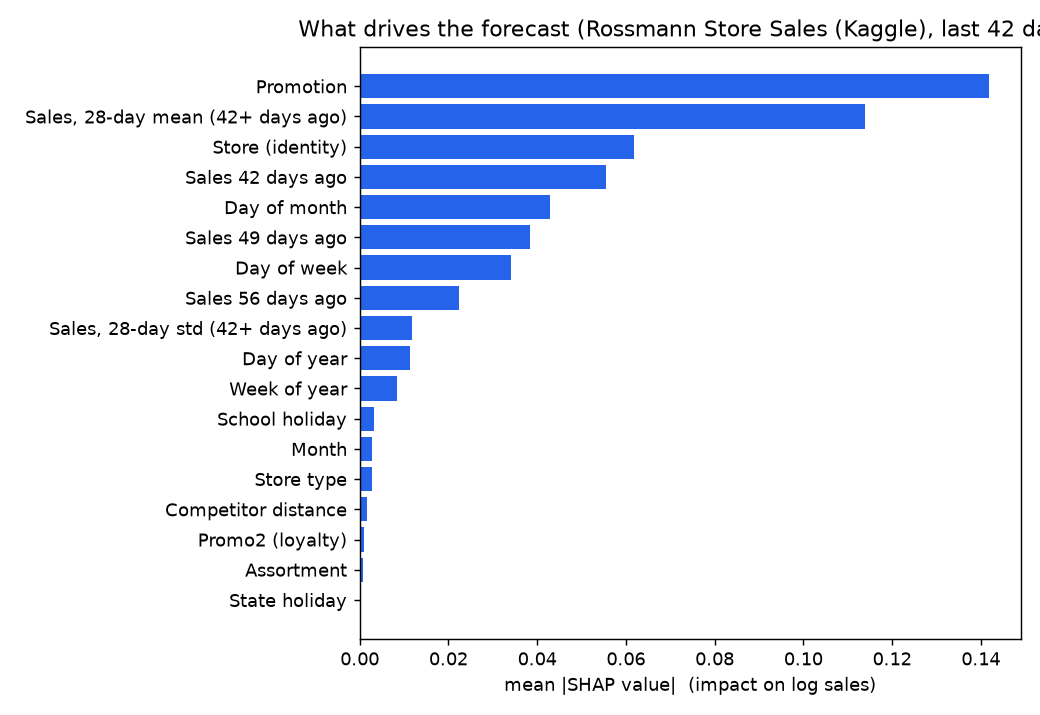
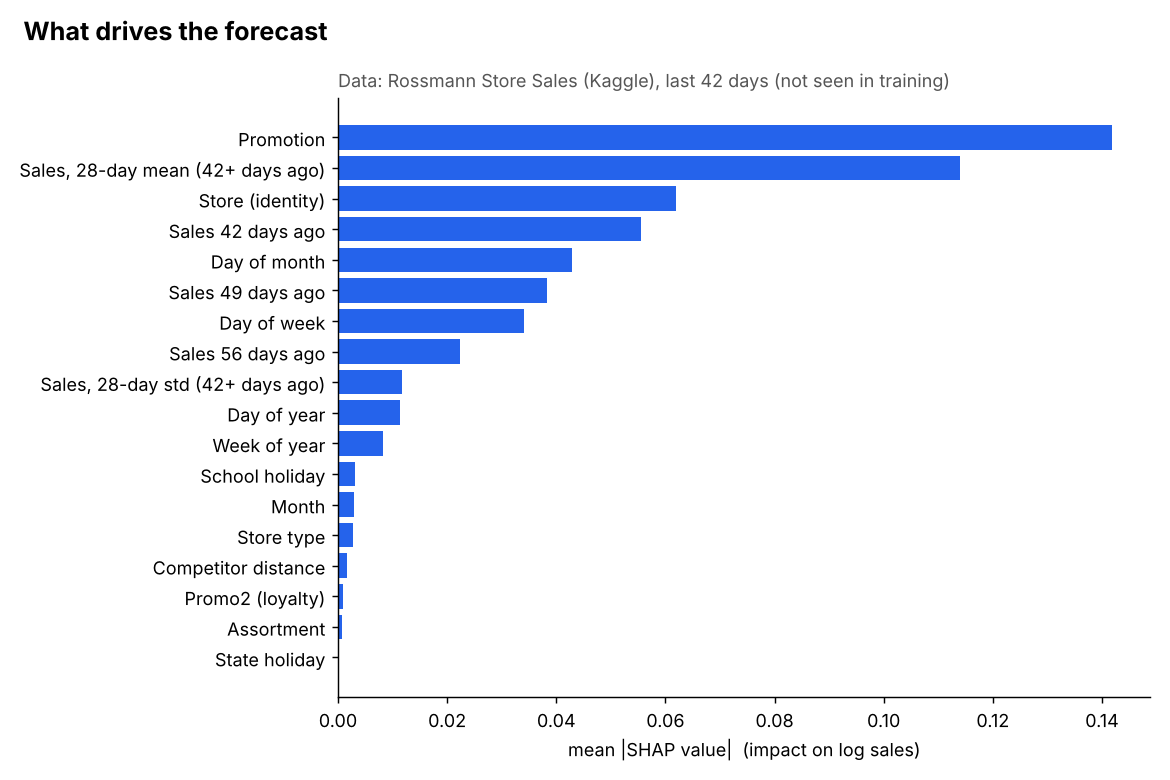
docs: real results for intervals, tuning and SHAP; cleaner SHAP chart

diff --git a/scripts/explain.py b/scripts/explain.py
@@ -50,16 +50,26 @@ def main(max_rows: int = 50_000):
     imp = shap_importance(model, X)
 
     config.FIGURES.mkdir(parents=True, exist_ok=True)
-    fig, ax = plt.subplots(figsize=(8, 5.5))
-    ax.barh([label(c) for c in imp.index], imp.to_numpy(), color="#2563eb")
-    ax.set_xlabel("mean |SHAP value|  (impact on log sales)")
-    ax.set_title(f"What drives the forecast ({source}, last {config.HORIZON} days)")
-    plt.tight_layout()
-    out = config.FIGURES / "shap_importance.png"
-    plt.savefig(out, dpi=130)
-    plt.close()
+    plot_importance(imp.rename(label), config.FIGURES / "shap_importance.png",
+                    f"Data: {source}, last {config.HORIZON} days (not seen in training)")
     print(imp.sort_values(ascending=False).rename(label).round(4).to_string())
-    print(f"\nSaved {out}")
+    print(f"\nSaved {config.FIGURES / 'shap_importance.png'}")
+
+
+def plot_importance(imp: pd.Series, out, subtitle: str = ""):
+    """Horizontal bar chart of mean |SHAP| (imp is indexed by readable labels)."""
+    imp = imp.sort_values()
+    fig, ax = plt.subplots(figsize=(9, 6))
+    ax.barh(imp.index, imp.to_numpy(), color="#2563eb")
+    ax.set_xlabel("mean |SHAP value|  (impact on log sales)")
+    fig.suptitle("What drives the forecast", x=0.02, ha="left", fontsize=14, fontweight="bold")
+    if subtitle:
+        ax.set_title(subtitle, loc="left", fontsize=10, color="#555555")
+    for side in ("top", "right"):
+        ax.spines[side].set_visible(False)
+    fig.tight_layout()
+    fig.savefig(out, dpi=130)
+    plt.close(fig)
 
 
 if __name__ == "__main__":

diff --git a/README.md b/README.md
@@ -31,15 +31,16 @@ Forecasts daily sales for **1,115 Rossmann drugstores, up to 42 days ahead**, wi
 ## ⚡ TL;DR
 
 - **Problem:** forecast each store's daily sales 6 weeks ahead from Kaggle's Rossmann data (1M+ rows, 2013 to July 2015).
-- **Method:** leak-free features (every sales lag at least 42 days old), a **4-fold rolling backtest**, baselines first, then **LightGBM vs a PyTorch MLP**, tracked in MLflow; Optuna tuning on a period the reported backtest never sees.
+- **Method:** leak-free features (every sales lag at least 42 days old), a **4-fold rolling backtest**, baselines first, then **LightGBM vs a PyTorch MLP**, tracked in MLflow; Optuna tuning checked on a period it never saw (it didn't transfer, so the defaults stay).
 - **Result:** LightGBM **WAPE 0.091**, **57% lower error than the best baseline**, and better than the MLP in all four folds.
-- **Uncertainty:** every forecast comes with an **80% range** from quantile models, **conformally calibrated** so that about 8 in 10 real values fall inside it.
+- **Uncertainty:** every forecast comes with an **80% range** from quantile models, **conformally calibrated**: coverage in the backtest went from 69.9% to **81.6%**.
+- **Explainability:** SHAP shows **promotions** and the store's recent sales level drive the forecast most.
 - **Production:** FastAPI + Pydantic, Docker, **AWS Lambda + API Gateway + S3**, infrastructure in **Terraform**, JSON request logs in CloudWatch.
 - **Quality:** 48 tests (including a train/serve consistency test), CI that also runs the Lambda image in AWS's emulator and validates Terraform, pinned dependencies, Dependabot.
 
 | 🏪 Stores | 📅 Horizon | 📉 Error vs best baseline | 🎯 Interval | ✅ Tests |
 |:---:|:---:|:---:|:---:|:---:|
-| **1,115** | **42 days** | **57% lower** | **80%, calibrated** | **48 passing** |
+| **1,115** | **42 days** | **57% lower** | **81.6% coverage** | **48 passing** |
 
 > **Scope:** the model is trained on historical Kaggle data (2013 to July 2015) and served live on AWS as a demo, so its forecasts cover August–September 2015. Results describe this dataset and this backtest only.
 
@@ -101,12 +102,38 @@ A single number hides how sure the model is. Each forecast also has an **80% ran
 
 1. Two extra LightGBM models predict the 10th and 90th percentiles (quantile loss) instead of the mean.
 2. Quantile models are usually too narrow, so the range is **calibrated with conformalized quantile regression (CQR)**: on the most recent 42 days before the cutoff, measure how far real values fall outside the range (in log space, so the correction is a percentage that fits small and large stores) and widen by the 80th percentile of those misses.
-3. `scripts/evaluate_intervals.py` checks the coverage in the same rolling backtest, before and after calibration (target 0.80). On synthetic data calibration moved coverage from 0.62 to 0.79.
+3. `scripts/evaluate_intervals.py` measures the coverage in the same 4-fold rolling backtest.
 
-### Tuning and explainability
+| Fold (cutoff) | Raw coverage | **Calibrated coverage** | Avg. width (raw → calibrated) |
+|---|---:|---:|---:|
+| 0 (2015-02-14) | 73.1% | **88.9%** | 1,432 → 2,119 |
+| 1 (2015-03-28) | 67.8% | **73.8%** | 1,750 → 2,013 |
+| 2 (2015-05-09) | 68.5% | **81.1%** | 1,608 → 2,177 |
+| 3 (2015-06-20) | 70.1% | **82.6%** | 1,604 → 2,112 |
+| **Average** | 69.9% | **81.6%** (target 80%) | 1,599 → 2,105 |
 
-- **Tuning:** `scripts/tune_lgbm.py` runs an Optuna search with its own rolling backtest on the data **before** the reported test period, so the reported WAPE stays an honest out-of-sample score. The best parameters are saved to `configs/lgbm_best_params.json` and used by every script.
-- **Explainability:** `scripts/explain.py` computes exact TreeSHAP values with LightGBM (`pred_contrib=True`) on days the model has not seen and charts the average impact of each feature.
+The raw quantile models covered only about 7 in 10 real values; calibration brings the average to the 80% target. Fold 1 stays low: its window covers Easter 2015, when shopping patterns differ from the calibration weeks before it.
+
+### Hyperparameter tuning: an honest negative result
+
+`scripts/tune_lgbm.py` ran 25 Optuna trials (300 sampled stores) with its own rolling backtest on the data **before** the reported test period, so the test period stays unseen.
+
+| | Tuning period (WAPE) | Reported backtest (WAPE) |
+|---|---:|---:|
+| Default parameters | 0.1082 | **0.0912** |
+| Optuna best | 0.1032 | 0.0925 |
+
+The tuned parameters were 4.6% better on the tuning period but **slightly worse on the unseen test period**, so the served model keeps the defaults. The run is kept in [`configs/lgbm_tuning_result.json`](configs/lgbm_tuning_result.json). (Scripts use tuned parameters automatically only if `configs/lgbm_best_params.json` exists.)
+
+### What drives the forecast (SHAP)
+
+`scripts/explain.py` computes exact TreeSHAP values with LightGBM (`pred_contrib=True`) on the last 42 days, which the model did not see in training.
+
+![SHAP feature impact](reports/figures/shap_importance.png)
+
+- **Promotions** have the largest effect on a given day's forecast, followed by the store's **recent sales level** (the 28-day average from 42+ days earlier) and the **store itself**.
+- **Calendar effects** (day of month, day of week) come next; store attributes such as type, assortment and competitor distance add little once the model knows the store's own sales history.
+- LightGBM's default "split count" importance ranks Promotion 14th of 18. A yes/no feature needs few splits but moves predictions a lot; SHAP measures the effect size, so it is the better explanation.
 
 ## 🔍 What the data shows
 
@@ -177,7 +204,7 @@ flowchart LR
 - **Baselines first:** naive, seasonal naive and moving average set the score any model must beat.
 - **Two models:** LightGBM on log(1 + sales), and a PyTorch MLP with learned embeddings, a hand-written training loop, seeded shuffling, AdamW and early stopping.
 - **Calibrated uncertainty:** quantile models plus conformal calibration; the coverage is measured, not assumed.
-- **Honest tuning:** Optuna searches on a period the reported backtest never sees.
+- **Honest tuning:** Optuna searches on a period the reported backtest never sees, and its result is only used if it holds up there (it didn't).
 - **Experiment tracking:** parameters, per-fold metrics and loss curves in MLflow.
 - **Validated API:** Pydantic schemas reject bad input; unknown stores return 404; out-of-range or duplicate dates, bad flags and empty lists return 422.
 - **Train/serve consistency test:** the API must return the same numbers as the offline pipeline.
@@ -317,7 +344,7 @@ CI (`.github/workflows/ci.yml`) runs on every push: lint, tests, the training sc
 - **The quick `/forecast/{store}/default` endpoint assumes no promotions,** so it forecasts lower than a typical month. Use `POST /forecast` with a real schedule.
 - **Missing stores:** about 180 stores have no records from July to December 2014. Some lag features for those stores reach back into that gap in the earliest backtest window and are treated as missing values.
 - **Scoring is not comparable to the Kaggle leaderboard,** which used a different metric (RMSPE) and a different test split.
-- **The interval is calibrated on one recent window;** coverage can drift if demand patterns change. It is a range for one day at a time, not for totals over several days.
+- **The interval is calibrated on one recent window;** coverage drops when the forecast period behaves differently, e.g. 73.8% in the fold covering Easter 2015. It is a range for one day at a time, not for totals over several days.
 - **The MLP trains on slightly less recent data than LightGBM,** because it holds out the last 42 days before each cutoff for early stopping.
 - **Not built yet:** drift monitoring and automated retraining.
 - **Data and licence:** the dataset is not redistributed here. Follow the Kaggle competition rules when using it. Code is under the [MIT License](LICENSE).
